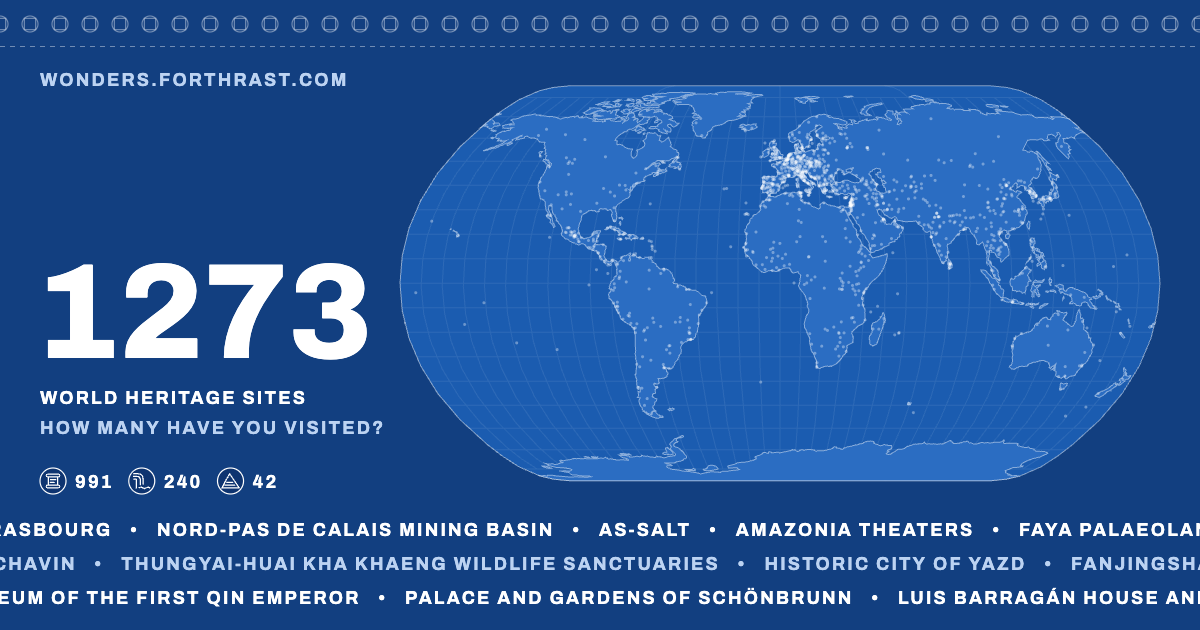
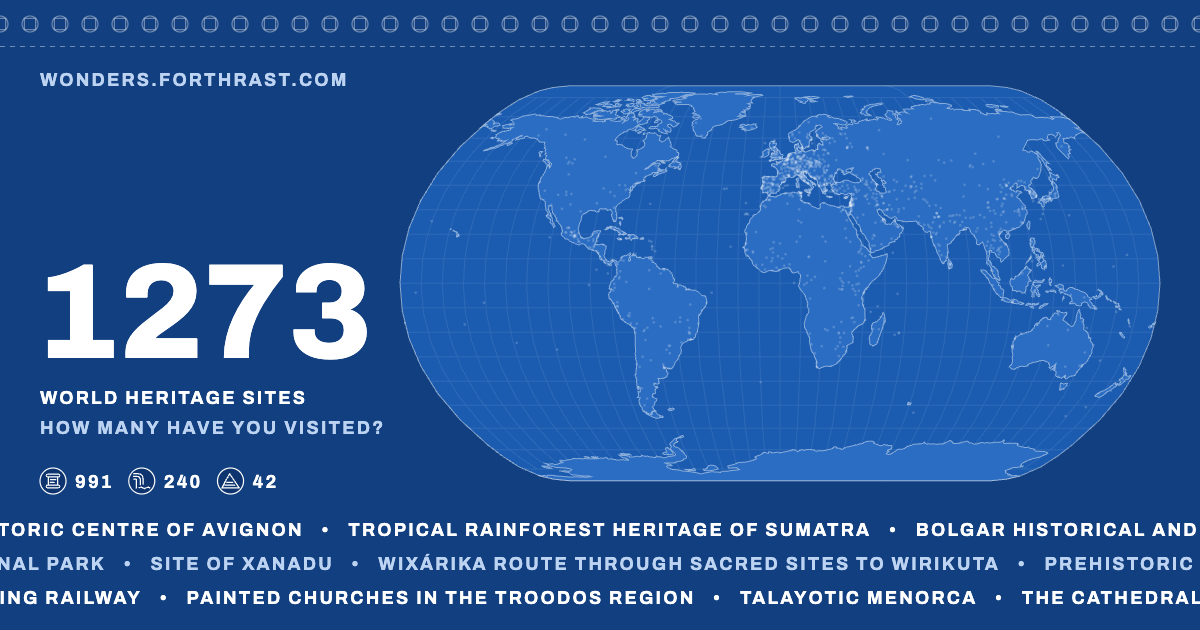
Share card: more contrast between visited and unvisited
Unvisited sites fade to a faint dust (0.35 -> 0.18 alpha, smaller dots);
visited seals grow slightly, so the register carries the card.

diff --git a/app.js b/app.js
@@ -173,7 +173,7 @@ async function render_card({ sites, visits, land, summary, generic = false }) {
   const g = c.getContext("2d");
   const P = {
     field: "#123f80", sea: "#1b5cb0", land: "#2b6dc2", white: "#ffffff",
-    pale: "#bcd3f2", line: "rgba(255,255,255,0.45)", faint: "rgba(255,255,255,0.35)",
+    pale: "#bcd3f2", line: "rgba(255,255,255,0.45)", faint: "rgba(255,255,255,0.18)",
   };
   const left = 40;
 
@@ -241,12 +241,13 @@ async function render_card({ sites, visits, land, summary, generic = false }) {
   for (const s of sites) {
     if (visits[s.id]) continue;
     const [x, y] = proj([s.lon, s.lat]);
-    g.beginPath(); g.arc(x, y, 1.5, 0, Math.PI * 2); g.fill();
+    // unvisited recede to a dust, so your seals carry the card
+    g.beginPath(); g.arc(x, y, 1.3, 0, Math.PI * 2); g.fill();
   }
   for (const s of sites) {
     if (!visits[s.id]) continue;
     const [x, y] = proj([s.lon, s.lat]);
-    draw_visited_dot(g, x, y, 2.4, false);
+    draw_visited_dot(g, x, y, 3, false);
   }
 
   // the number, then what it counts

diff --git a/index.html b/index.html
@@ -11,7 +11,7 @@
   <meta property="og:url" content="https://wonders.forthrast.com/">
   <meta property="og:title" content="World Heritage Register: how many of the 1,273 have you visited?">
   <meta property="og:description" content="Tap the UNESCO World Heritage sites you've been to, then share your card. Unofficial; made with AI.">
-  <meta property="og:image" content="https://wonders.forthrast.com/og-card.png?v=6">
+  <meta property="og:image" content="https://wonders.forthrast.com/og-card.png?v=7">
   <meta property="og:image:width" content="1200">
   <meta property="og:image:height" content="630">
   <meta property="og:image:alt" content="A blue poster-style world map of UNESCO World Heritage sites with the count 1273">
